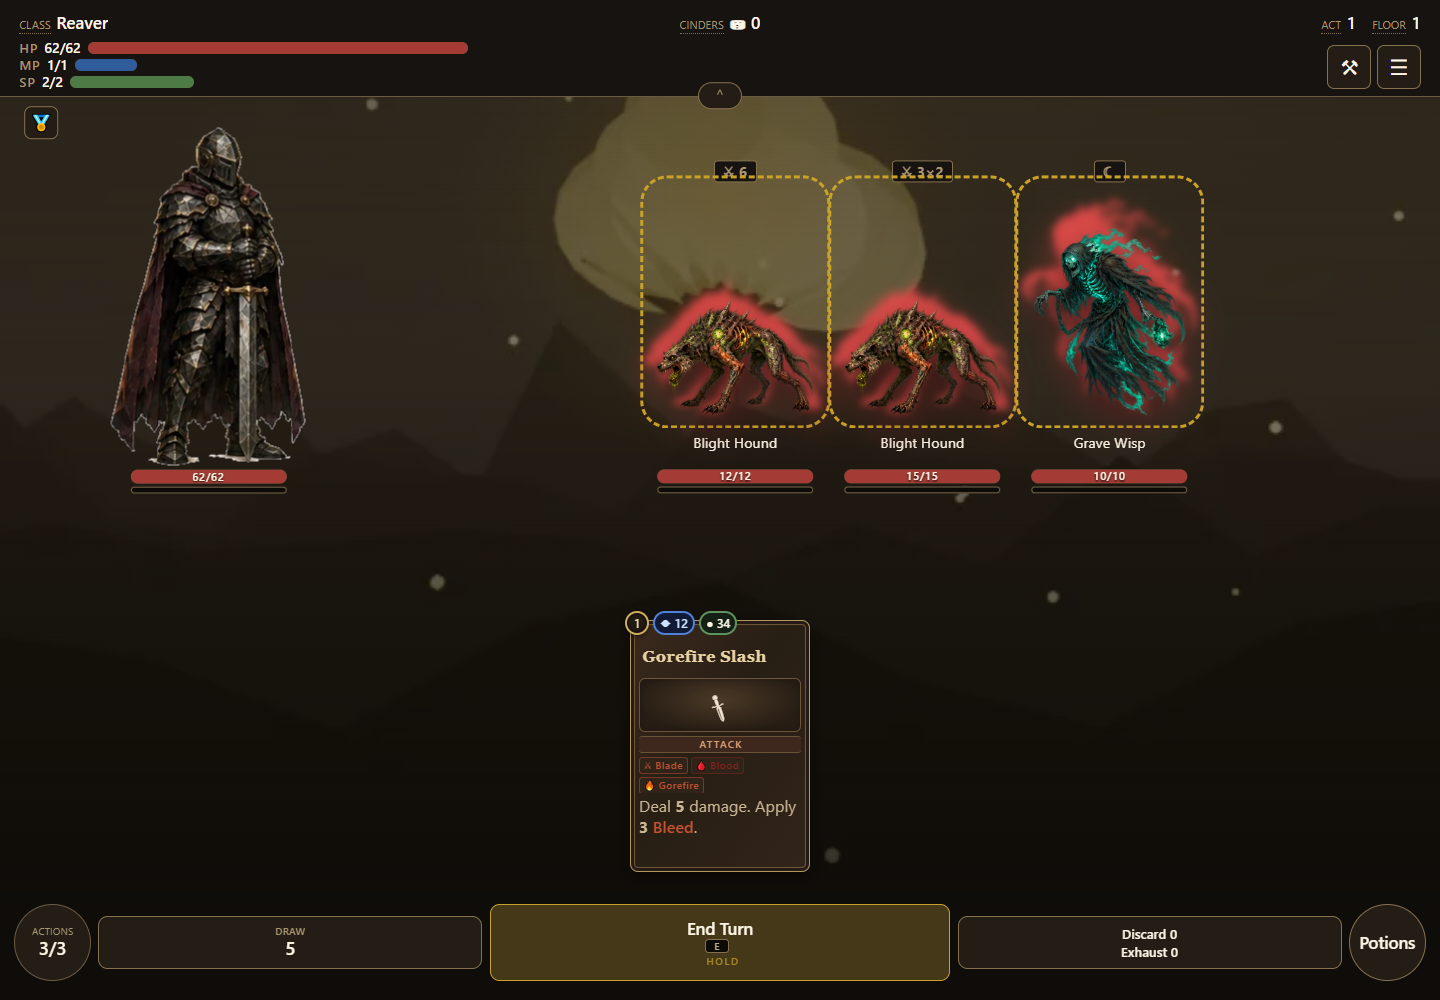
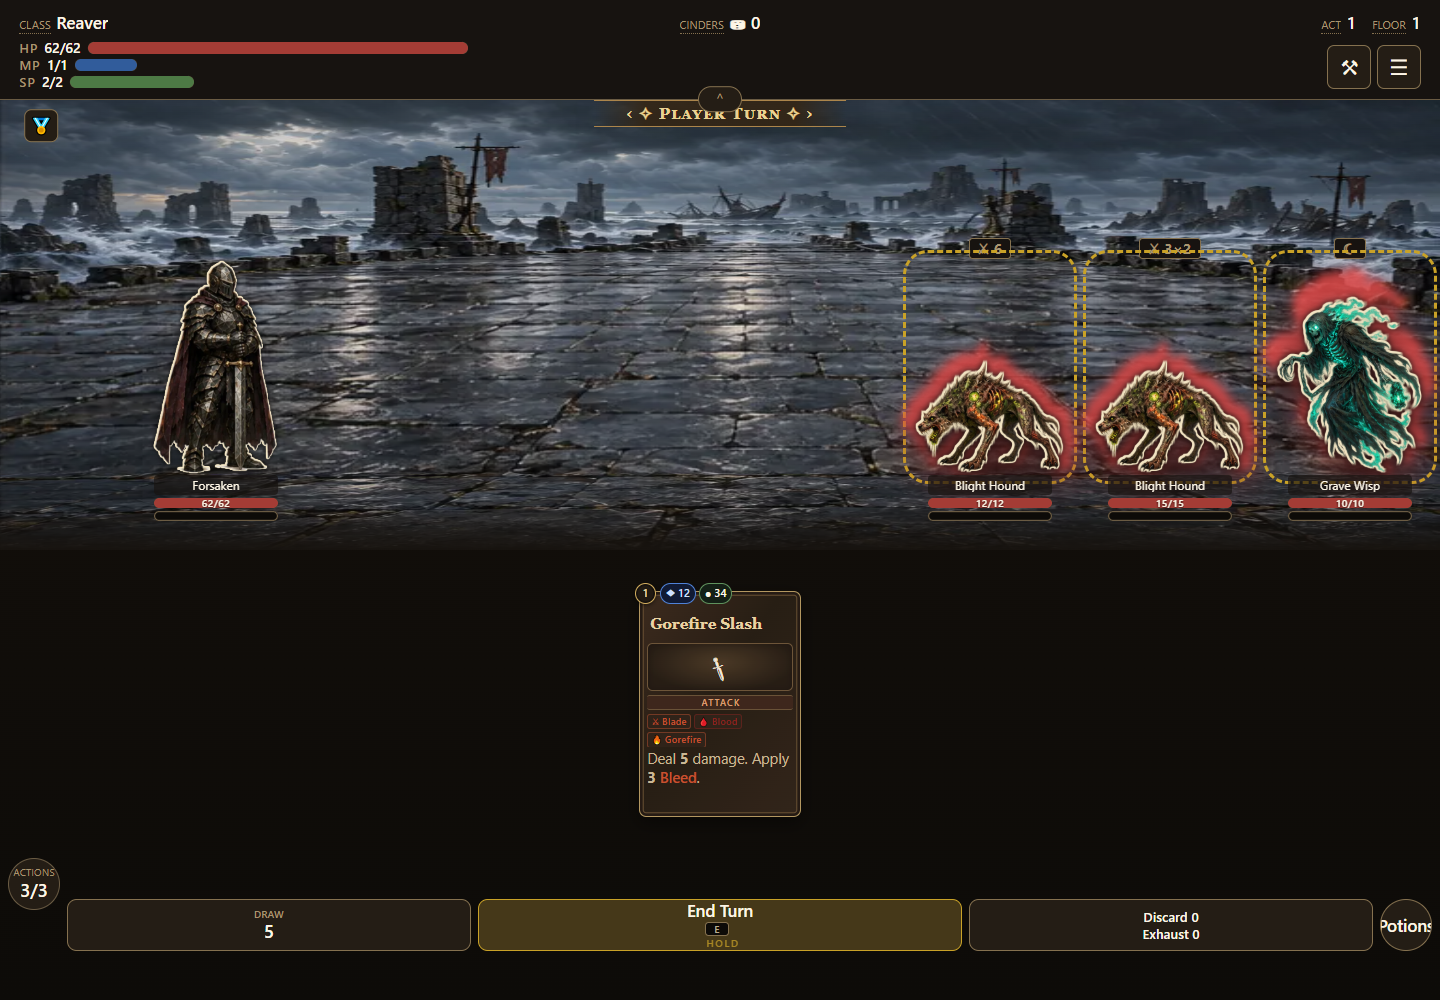
Refresh card text previews for the current combat layout

diff --git a/docs/COMPONENT-CATALOG.md b/docs/COMPONENT-CATALOG.md
@@ -543,7 +543,7 @@ merchant armament offers and buy/sell inspection, reward armament inspection, an
 
 Item cards: equipmentCard.js owns the uniformly scaled poker canvas. collectibleCard.js composes authored potion/relic effects into that frame for Inventory, merchant shelves, and potion reward inspection. Listing tracks are fixed at 280px; reveals span the grid. Delegated hold feedback paints above card art and inspection gestures reach the existing hold owner. Full-text disclosure remains independent of equip gestures.
 Playing cards: card.renderCard now adds playing-poker-card. The brown-and-gold inset frame, art well and subdued type band match equipment cards. Combat dimensions, resource badges, live values, tag fitting and selected/unaffordable states retain their existing contracts. Validation: tools/card-feedback.mjs covers desktop/phone input and reduced motion; --shots also records the initial hand.
-Combat sizing: fitFan hands keep card faces between 150 and 180 viewport pixels, uniformly scaling the complete 178px canvas. Titles and body use 16px canvas type (approximately 13.5px on the smallest face); titles wrap to two lines. One cost row above the title groups action, mana and stamina badges without covering text. Full details remain available through Information. BattlefieldStage grows sprites into available space and grounds their stacks near the hand, preserving HUD/intent clearance. Three-enemy phone fields fit without horizontal scrolling; four or more may scroll. Short-height battles scroll vertically instead of shrinking below readable card sizes.
+Combat sizing: fitFan hands uniformly scale the complete 178px canvas to fit the current hand area. Titles and body use 16px canvas type, and titles wrap to two lines. One cost row above the title groups action, mana and stamina badges without covering text. Full details remain available through Information. BattlefieldStage grows sprites into available space and grounds their stacks near the hand, preserving HUD/intent clearance. Three-enemy phone fields fit without horizontal scrolling; four or more may scroll. Short-height battles scroll vertically instead of shrinking below readable card sizes.
 
 Mobile combat art: at widths up to 640px, figures render at 90% of their fitted size (157.5px reference minimum instead of 175px). Neighboring enemy artwork may overlap slightly; names, meters and intents retain their existing layout and size.
 
